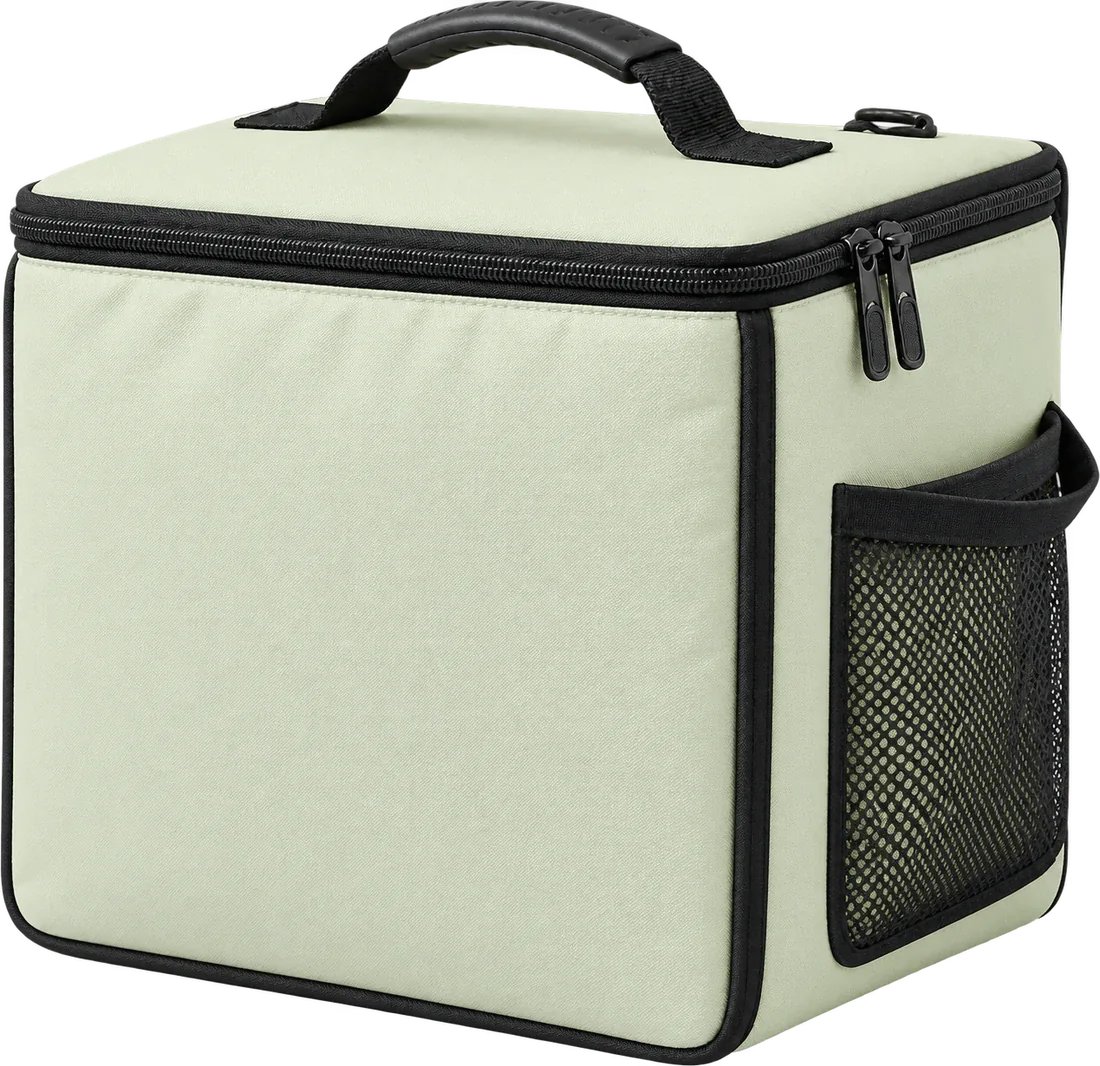
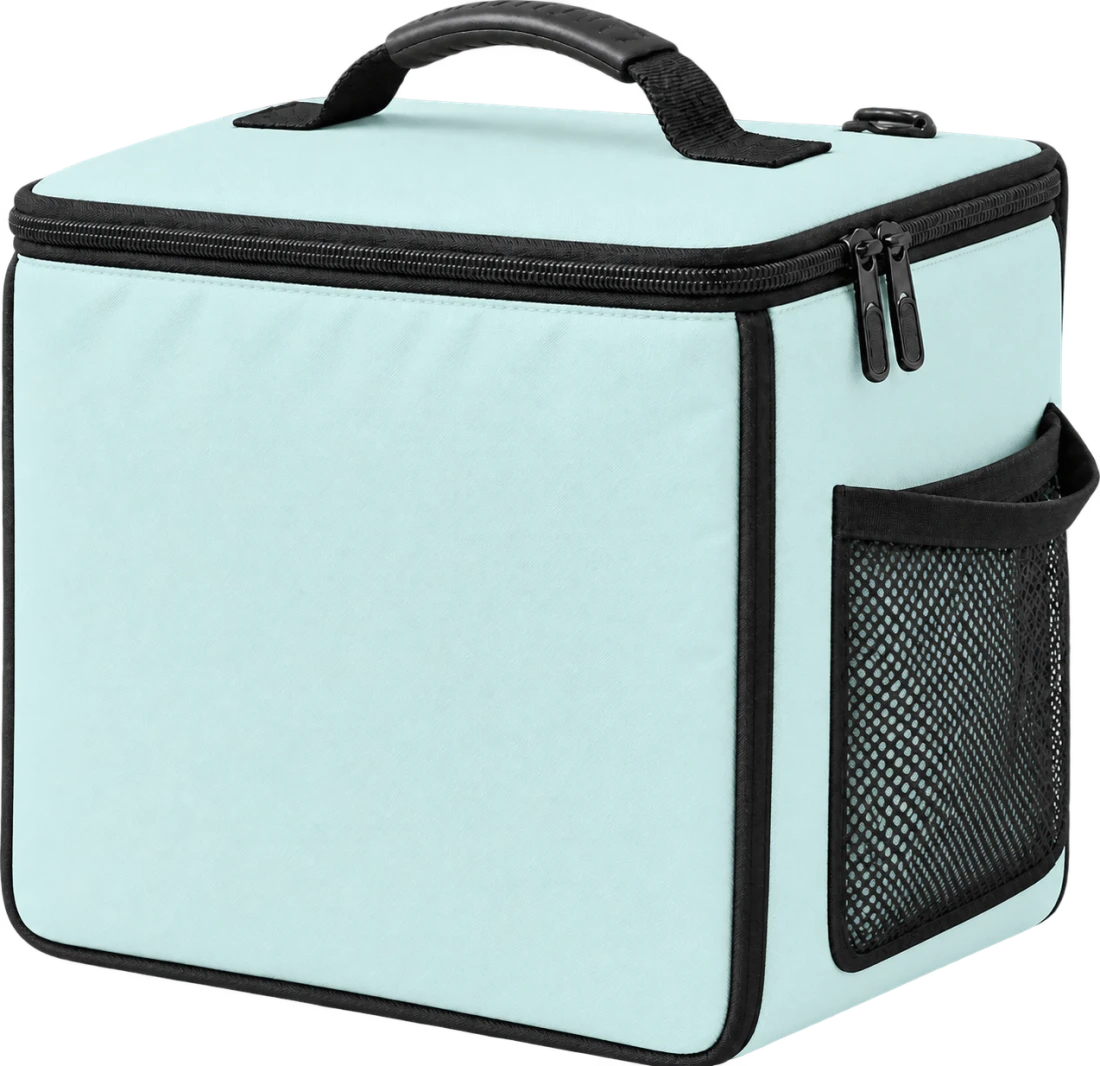
Update styles and assets for improved UI consistency and visual appeal

diff --git a/enatega-multivendor-web/lib/ui/screens/unprotected/landing/QuietOrbitHero.tsx b/enatega-multivendor-web/lib/ui/screens/unprotected/landing/QuietOrbitHero.tsx
@@ -142,8 +142,8 @@ export default function QuietOrbitHero() {
 
           <div className="absolute bottom-[9%] left-[13%] z-[2] h-[52%] w-[68%] sm:bottom-[5%] sm:left-[16%] sm:h-[55%] sm:w-[51%]">
             <div className="absolute inset-x-0 bottom-0 h-[31%]">
-              <div className="absolute inset-x-0 bottom-0 h-[72%] rounded-[0_0_50%_50%] bg-[#d8e1cc] shadow-[0_24px_34px_rgba(21,25,20,0.12)] dark:bg-[#293126]" />
-              <div className="absolute inset-x-0 top-0 h-[64%] rounded-[50%] bg-[#eaf0e2] shadow-[inset_0_-10px_18px_rgba(111,128,96,0.14)] dark:bg-[#354031]" />
+              <div className="absolute inset-x-0 bottom-0 h-[72%] rounded-[0_0_50%_50%] bg-primary-light shadow-[0_24px_34px_rgba(21,25,20,0.12)] dark:bg-[#293126]" />
+              <div className="absolute inset-x-0 top-0 h-[64%] rounded-[50%] bg-primary-light shadow-[inset_0_-10px_18px_rgba(16,125,122,0.14)] dark:bg-[#354031]" />
             </div>
             <AnimatePresence mode="wait" initial={false}>
               <motion.div key={active.id} initial={reduceMotion ? false : { opacity: 0, y: 12, clipPath: "inset(12% 0 0 0)" }} animate={{ opacity: 1, y: 0, clipPath: "inset(0% 0 0 0)" }} exit={reduceMotion ? undefined : { opacity: 0, y: -8, clipPath: "inset(0 0 12% 0)" }} transition={{ duration: reduceMotion ? 0 : 0.5, ease: [0.22, 1, 0.36, 1] }} className={`absolute flex items-end justify-center ${active.stageFrameClassName} ${active.stageInsetClassName}`}>
@@ -153,7 +153,7 @@ export default function QuietOrbitHero() {
           </div>
 
           {previews.map((preview, index) => (
-            <button key={preview.id} type="button" onClick={() => setActiveCategory(preview.id)} aria-label={t("categories.show", { category: t(`categories.${preview.id}`) })} className={`absolute z-10 flex h-20 w-20 items-center justify-center rounded-full bg-[#f1f7e9] shadow-[0_14px_30px_rgba(21,25,20,0.11)] transition-transform duration-500 hover:scale-[1.03] focus-visible:outline-none dark:bg-dispatch-map dark:shadow-[0_14px_30px_rgba(0,0,0,0.3)] sm:h-40 sm:w-40 ${index === 0 ? "right-[3%] top-[5%] sm:right-[16%] sm:top-[3%]" : "bottom-[6%] right-[3%] sm:bottom-[3%] sm:right-[10%]"}`}>
+            <button key={preview.id} type="button" onClick={() => setActiveCategory(preview.id)} aria-label={t("categories.show", { category: t(`categories.${preview.id}`) })} className={`absolute z-10 flex h-20 w-20 items-center justify-center rounded-full bg-primary-light shadow-[0_14px_30px_rgba(21,25,20,0.11)] transition-transform duration-500 hover:scale-[1.03] focus-visible:outline-none dark:bg-dispatch-map dark:shadow-[0_14px_30px_rgba(0,0,0,0.3)] sm:h-40 sm:w-40 ${index === 0 ? "right-[3%] top-[5%] sm:right-[16%] sm:top-[3%]" : "bottom-[6%] right-[3%] sm:bottom-[3%] sm:right-[10%]"}`}>
               <Image src={preview.image} alt="" sizes="160px" className={`object-contain ${preview.previewImageClassName}`} />
               <span className="absolute -right-2 -top-6 whitespace-nowrap text-[11px] font-semibold uppercase tracking-[0.06em] text-dispatch-muted sm:text-xs rtl:-left-2 rtl:right-auto"><span className="text-primary-dark">{preview.index}</span>{" "}{t(`categories.orbit.${preview.id}`)}</span>
             </button>

diff --git a/enatega-multivendor-web/lib/ui/screens/unprotected/landing/ScrollJourney.tsx b/enatega-multivendor-web/lib/ui/screens/unprotected/landing/ScrollJourney.tsx
@@ -131,7 +131,7 @@ export default function ScrollJourney() {
               </svg>
 
               <div className="relative h-[390px] md:static md:h-auto">
-                <div className="absolute inset-x-[8%] top-[30%] h-[44%] rounded-[50%] bg-[#e5ecda] shadow-[0_28px_52px_rgba(21,25,20,0.1)] dark:bg-[#293126] dark:shadow-[0_28px_52px_rgba(0,0,0,0.3)] md:inset-x-[18%] md:top-[24%] md:h-[48%]" />
+                <div className="absolute inset-x-[8%] top-[30%] h-[44%] rounded-[50%] bg-primary-light shadow-[0_28px_52px_rgba(21,25,20,0.1)] dark:bg-[#293126] dark:shadow-[0_28px_52px_rgba(0,0,0,0.3)] md:inset-x-[18%] md:top-[24%] md:h-[48%]" />
                 <motion.div
                   style={
                     reduceMotion
@@ -153,7 +153,7 @@ export default function ScrollJourney() {
                       alt="JSML"
                       width={321}
                       height={300}
-                      className="absolute left-[21%] top-[48%] h-auto w-[39%] opacity-90"
+                      className="absolute left-[36%] top-[58%] h-auto w-[18%] -translate-x-1/2 -translate-y-1/2 opacity-90"
                     />
                   </div>
                 </motion.div>

diff --git a/enatega-multivendor-web/app/(localized)/global.css b/enatega-multivendor-web/app/(localized)/global.css
@@ -135,7 +135,7 @@ body:has(.quiet-orbit-page) {
   --dispatch-surface: #ffffff;
   --dispatch-map: #f7f8f6;
   --dispatch-line: #e8e9e4;
-  --quiet-plinth: #e5ecda;
+  --quiet-plinth: #d9efed;
   --quiet-inactive-opacity: 0.48;
   scrollbar-color: var(--primary-dark) var(--dispatch-ground);
 }
